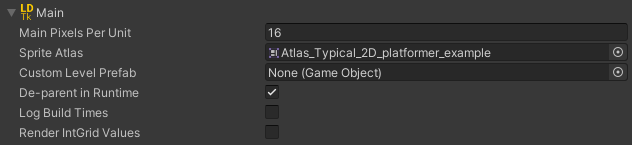
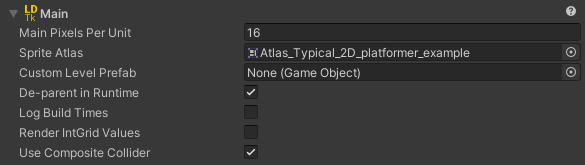
rebuilt website

diff --git a/docs/api/LDtkUnity.LayerInstance.html b/docs/api/LDtkUnity.LayerInstance.html
@@ -254,7 +254,7 @@ Make sure to call <a class="xref" href="LDtkUnity.LDtkUidBank.html">LDtkUidBank<
     <a href="https://github.com/Cammin/LDtkUnity/new/develop/apiSpec/new?filename=LDtkUnity_LayerInstance_IntGridValueCount.md&amp;value=---%0Auid%3A%20LDtkUnity.LayerInstance.IntGridValueCount%0Asummary%3A%20'*You%20can%20override%20summary%20for%20the%20API%20here%20using%20*MARKDOWN*%20syntax'%0A---%0A%0A*Please%20type%20below%20more%20information%20about%20this%20API%3A*%0A%0A">Improve this Doc</a>
   </span>
   <span class="small pull-right mobile-hide">
-    <a href="https://github.com/Cammin/LDtkUnity/blob/develop/Assets/LDtkUnity/Runtime/Data/Extensions/Instance/LayerInstance.cs/#L79">View Source</a>
+    <a href="https://github.com/Cammin/LDtkUnity/blob/develop/Assets/LDtkUnity/Runtime/Data/Extensions/Instance/LayerInstance.cs/#L89">View Source</a>
   </span>
   <a id="LDtkUnity_LayerInstance_IntGridValueCount_" data-uid="LDtkUnity.LayerInstance.IntGridValueCount*"></a>
   <h4 id="LDtkUnity_LayerInstance_IntGridValueCount" data-uid="LDtkUnity.LayerInstance.IntGridValueCount">IntGridValueCount</h4>
@@ -680,7 +680,7 @@ public Vector2Int UnityCellSize { get; }</code></pre>
     <a href="https://github.com/Cammin/LDtkUnity/new/develop/apiSpec/new?filename=LDtkUnity_LayerInstance_UnityPxOffset.md&amp;value=---%0Auid%3A%20LDtkUnity.LayerInstance.UnityPxOffset%0Asummary%3A%20'*You%20can%20override%20summary%20for%20the%20API%20here%20using%20*MARKDOWN*%20syntax'%0A---%0A%0A*Please%20type%20below%20more%20information%20about%20this%20API%3A*%0A%0A">Improve this Doc</a>
   </span>
   <span class="small pull-right mobile-hide">
-    <a href="https://github.com/Cammin/LDtkUnity/blob/develop/Assets/LDtkUnity/Runtime/Data/Extensions/Instance/LayerInstance.cs/#L69">View Source</a>
+    <a href="https://github.com/Cammin/LDtkUnity/blob/develop/Assets/LDtkUnity/Runtime/Data/Extensions/Instance/LayerInstance.cs/#L74">View Source</a>
   </span>
   <a id="LDtkUnity_LayerInstance_UnityPxOffset_" data-uid="LDtkUnity.LayerInstance.UnityPxOffset*"></a>
   <h4 id="LDtkUnity_LayerInstance_UnityPxOffset" data-uid="LDtkUnity.LayerInstance.UnityPxOffset">UnityPxOffset</h4>
@@ -771,10 +771,57 @@ public Vector2Int UnityPxTotalOffset { get; }</code></pre>
   </table>
   <span class="small pull-right mobile-hide">
     <span class="divider">|</span>
+    <a href="https://github.com/Cammin/LDtkUnity/new/develop/apiSpec/new?filename=LDtkUnity_LayerInstance_UnityWorldOffset.md&amp;value=---%0Auid%3A%20LDtkUnity.LayerInstance.UnityWorldOffset%0Asummary%3A%20'*You%20can%20override%20summary%20for%20the%20API%20here%20using%20*MARKDOWN*%20syntax'%0A---%0A%0A*Please%20type%20below%20more%20information%20about%20this%20API%3A*%0A%0A">Improve this Doc</a>
+  </span>
+  <span class="small pull-right mobile-hide">
+    <a href="https://github.com/Cammin/LDtkUnity/blob/develop/Assets/LDtkUnity/Runtime/Data/Extensions/Instance/LayerInstance.cs/#L79">View Source</a>
+  </span>
+  <a id="LDtkUnity_LayerInstance_UnityWorldOffset_" data-uid="LDtkUnity.LayerInstance.UnityWorldOffset*"></a>
+  <h4 id="LDtkUnity_LayerInstance_UnityWorldOffset" data-uid="LDtkUnity.LayerInstance.UnityWorldOffset">UnityWorldOffset</h4>
+  <div class="markdown level1 summary"></div>
+  <div class="markdown level1 conceptual"></div>
+  
+  
+  
+  <!-- DISABLED DECLARATION
+  <h5 class="decalaration">Declaration</h5>
+  -->
+  
+  
+  <!-- DISABLED CODE WRAPPER
+  <div class="codewrapper">
+    <pre><code class="lang-csharp hljs">[JsonIgnore]
+public Vector2 UnityWorldOffset { get; }</code></pre>
+  </div>
+  -->
+  
+  
+  
+  <!-- DISABLED PROPERTY VALUE TEXT
+  <h5 class="propertyValue">Property Value</h5>
+  -->
+  
+  <table class="table table-bordered table-striped table-condensed">
+    <thead>
+      <tr>
+        <th>Type</th>
+        <th>Description</th>
+      </tr>
+    </thead>
+    <tbody>
+      <tr>
+        <td><span class="xref">UnityEngine.Vector2</span></td>
+        <td><p>Offset in world space to render this layer, usually 0,0</p>
+</td>
+      </tr>
+    </tbody>
+  </table>
+  <span class="small pull-right mobile-hide">
+    <span class="divider">|</span>
     <a href="https://github.com/Cammin/LDtkUnity/new/develop/apiSpec/new?filename=LDtkUnity_LayerInstance_UnityWorldPosition.md&amp;value=---%0Auid%3A%20LDtkUnity.LayerInstance.UnityWorldPosition%0Asummary%3A%20'*You%20can%20override%20summary%20for%20the%20API%20here%20using%20*MARKDOWN*%20syntax'%0A---%0A%0A*Please%20type%20below%20more%20information%20about%20this%20API%3A*%0A%0A">Improve this Doc</a>
   </span>
   <span class="small pull-right mobile-hide">
-    <a href="https://github.com/Cammin/LDtkUnity/blob/develop/Assets/LDtkUnity/Runtime/Data/Extensions/Instance/LayerInstance.cs/#L74">View Source</a>
+    <a href="https://github.com/Cammin/LDtkUnity/blob/develop/Assets/LDtkUnity/Runtime/Data/Extensions/Instance/LayerInstance.cs/#L84">View Source</a>
   </span>
   <a id="LDtkUnity_LayerInstance_UnityWorldPosition_" data-uid="LDtkUnity.LayerInstance.UnityWorldPosition*"></a>
   <h4 id="LDtkUnity_LayerInstance_UnityWorldPosition" data-uid="LDtkUnity.LayerInstance.UnityWorldPosition">UnityWorldPosition</h4>
@@ -812,6 +859,53 @@ public Vector2 UnityWorldPosition { get; }</code></pre>
       <tr>
         <td><span class="xref">UnityEngine.Vector2</span></td>
         <td><p>A special Vector2 position that solves where the layer's position should be in Unity's world space based off of LDtk's top-left origin</p>
+</td>
+      </tr>
+    </tbody>
+  </table>
+  <span class="small pull-right mobile-hide">
+    <span class="divider">|</span>
+    <a href="https://github.com/Cammin/LDtkUnity/new/develop/apiSpec/new?filename=LDtkUnity_LayerInstance_UnityWorldTotalOffset.md&amp;value=---%0Auid%3A%20LDtkUnity.LayerInstance.UnityWorldTotalOffset%0Asummary%3A%20'*You%20can%20override%20summary%20for%20the%20API%20here%20using%20*MARKDOWN*%20syntax'%0A---%0A%0A*Please%20type%20below%20more%20information%20about%20this%20API%3A*%0A%0A">Improve this Doc</a>
+  </span>
+  <span class="small pull-right mobile-hide">
+    <a href="https://github.com/Cammin/LDtkUnity/blob/develop/Assets/LDtkUnity/Runtime/Data/Extensions/Instance/LayerInstance.cs/#L69">View Source</a>
+  </span>
+  <a id="LDtkUnity_LayerInstance_UnityWorldTotalOffset_" data-uid="LDtkUnity.LayerInstance.UnityWorldTotalOffset*"></a>
+  <h4 id="LDtkUnity_LayerInstance_UnityWorldTotalOffset" data-uid="LDtkUnity.LayerInstance.UnityWorldTotalOffset">UnityWorldTotalOffset</h4>
+  <div class="markdown level1 summary"></div>
+  <div class="markdown level1 conceptual"></div>
+  
+  
+  
+  <!-- DISABLED DECLARATION
+  <h5 class="decalaration">Declaration</h5>
+  -->
+  
+  
+  <!-- DISABLED CODE WRAPPER
+  <div class="codewrapper">
+    <pre><code class="lang-csharp hljs">[JsonIgnore]
+public Vector2 UnityWorldTotalOffset { get; }</code></pre>
+  </div>
+  -->
+  
+  
+  
+  <!-- DISABLED PROPERTY VALUE TEXT
+  <h5 class="propertyValue">Property Value</h5>
+  -->
+  
+  <table class="table table-bordered table-striped table-condensed">
+    <thead>
+      <tr>
+        <th>Type</th>
+        <th>Description</th>
+      </tr>
+    </thead>
+    <tbody>
+      <tr>
+        <td><span class="xref">UnityEngine.Vector2</span></td>
+        <td><p>Total layer world-space offset, including both instance and definition offsets.</p>
 </td>
       </tr>
     </tbody>

diff --git a/docs/documentation/Importer/topic_Section_Main.html b/docs/documentation/Importer/topic_Section_Main.html
@@ -84,6 +84,7 @@ All tileset art that is used in levels will be packed to the Sprite Atlas.</p>
 <li>This primarily solves the &quot;tearing&quot; in the sprites of the tilemaps with padding.</li>
 <li>The sprite atlas is reserved for auto-generated sprites only; Any foreign sprites assigned to the atlas will be removed.</li>
 <li>Only the tiles that are actually used are packed, resulting in optimal size.</li>
+<li>This field will only appear if any tilesets are defined in the LDtk project.</li>
 </ul>
 <h3 id="custom-level-prefab">Custom Level Prefab</h3>
 <p>Optional. This prefab is instantiated as the root GameObject for all levels in the build process.<br>
@@ -97,7 +98,11 @@ Keep this on if the exact level/layer hierarchy structure is not a concern in ru
 <h3 id="log-build-times">Log Build Times</h3>
 <p>Use this to log the count of levels built, and how long it took to generate them.</p>
 <h3 id="render-intgrid-values">Render IntGrid Values</h3>
-<p>When this is enabled, all <a href="../Topics/topic_IntGridTile.html"><strong>IntGrid Tiles</strong></a> will have their tile's sprite rendered.</p>
+<p>When this is enabled, all <a href="../Topics/topic_IntGridTile.html"><strong>IntGrid Tiles</strong></a> will have their tile's sprite rendered.
+This toggle will only appear if any IntGrid layers are defined.</p>
+<h3 id="use-composite-collider">Use Composite Collider</h3>
+<p>Use this to add a CompositeCollider2D to all IntGrid tilemaps.<br>
+This can help with slowdown due to very large levels.</p>
 </article>
           </div>
           

diff --git a/docs/api/LDtkUnity.LDtkIntGridTile.html b/docs/api/LDtkUnity.LDtkIntGridTile.html
@@ -327,7 +327,7 @@ Inherit from this for more custom functionality if required.</p>
   <div class="codewrapper">
       <pre>
           <code class="lang-csharp hljs">
-              [HelpURL(&quot;https://cammin.github.io/LDtkUnity/&quot;)]
+              [HelpURL(&quot;https://cammin.github.io/LDtkUnity/documentation/Topics/topic_IntGridTile.html&quot;)]
 [CreateAssetMenu(fileName = &quot;LDtkIntGridTile&quot;, menuName = &quot;LDtkIntGridTile&quot;, order = 335)]
 public class LDtkIntGridTile : TileBase
           </code>

diff --git a/docs/api/LDtkUnity.LDtkLevelFile.html b/docs/api/LDtkUnity.LDtkLevelFile.html
@@ -319,7 +319,7 @@ Available when saving levels as separate files in LDtk. Reference this to access
   <div class="codewrapper">
       <pre>
           <code class="lang-csharp hljs">
-              [HelpURL(&quot;https://cammin.github.io/LDtkUnity/documentation/UnityAssets/LevelFile.html&quot;)]
+              [HelpURL(&quot;https://cammin.github.io/LDtkUnity/documentation/Topics/topic_LevelFile.html&quot;)]
 public class LDtkLevelFile : LDtkJsonFile&lt;Level&gt;, ILDtkJsonFile
           </code>
       </pre>

diff --git a/docs/documentation/Importer/topic_Section_Entities.html b/docs/documentation/Importer/topic_Section_Entities.html
@@ -74,6 +74,7 @@
 
 <p>Assign GameObjects that would be spawned as entities.<br>
 <img src="../../images/img_Unity_Section_Entities.png" alt="Section"></p>
+<p>If a field is left empty, then the entity won't exist in the import result.</p>
 <h3 id="position">Position</h3>
 <p>The prefab instance's transform position is set as the exact position in LDtk.<br>
 Ensure the root prefab's pivot point is similar to the entity's pivot defined in LDtk.</p>

diff --git a/docs/api/LDtkUnity.LDtkProjectFile.html b/docs/api/LDtkUnity.LDtkProjectFile.html
@@ -318,7 +318,7 @@
   <div class="codewrapper">
       <pre>
           <code class="lang-csharp hljs">
-              [HelpURL(&quot;https://cammin.github.io/LDtkUnity/documentation/UnityAssets/ProjectFile.html&quot;)]
+              [HelpURL(&quot;https://cammin.github.io/LDtkUnity/documentation/Topics/topic_ProjectFile.html&quot;)]
 public class LDtkProjectFile : LDtkJsonFile&lt;LdtkJson&gt;, ILDtkJsonFile
           </code>
       </pre>

diff --git a/docs/api/LDtkUnity.LDtkArtifactAssets.html b/docs/api/LDtkUnity.LDtkArtifactAssets.html
@@ -315,7 +315,7 @@
   <div class="codewrapper">
       <pre>
           <code class="lang-csharp hljs">
-              [HelpURL(&quot;https://cammin.github.io/LDtkUnity/documentation/ProjectAsset/TileCollections.html&quot;)]
+              [HelpURL(&quot;https://cammin.github.io/LDtkUnity/documentation/Topics/topic_ArtifactAssets.html&quot;)]
 public class LDtkArtifactAssets : ScriptableObject
           </code>
       </pre>

diff --git a/docs/api/LDtkUnity.LDtkFields.html b/docs/api/LDtkUnity.LDtkFields.html
@@ -519,7 +519,7 @@
           <code class="lang-csharp hljs">
               [DisallowMultipleComponent]
 [AddComponentMenu(&quot;LDtk/LDtk Fields&quot;)]
-[HelpURL(&quot;https://cammin.github.io/LDtkUnity/&quot;)]
+[HelpURL(&quot;https://cammin.github.io/LDtkUnity/documentation/Topics/topic_Fields.html&quot;)]
 public class LDtkFields : MonoBehaviour
           </code>
       </pre>
